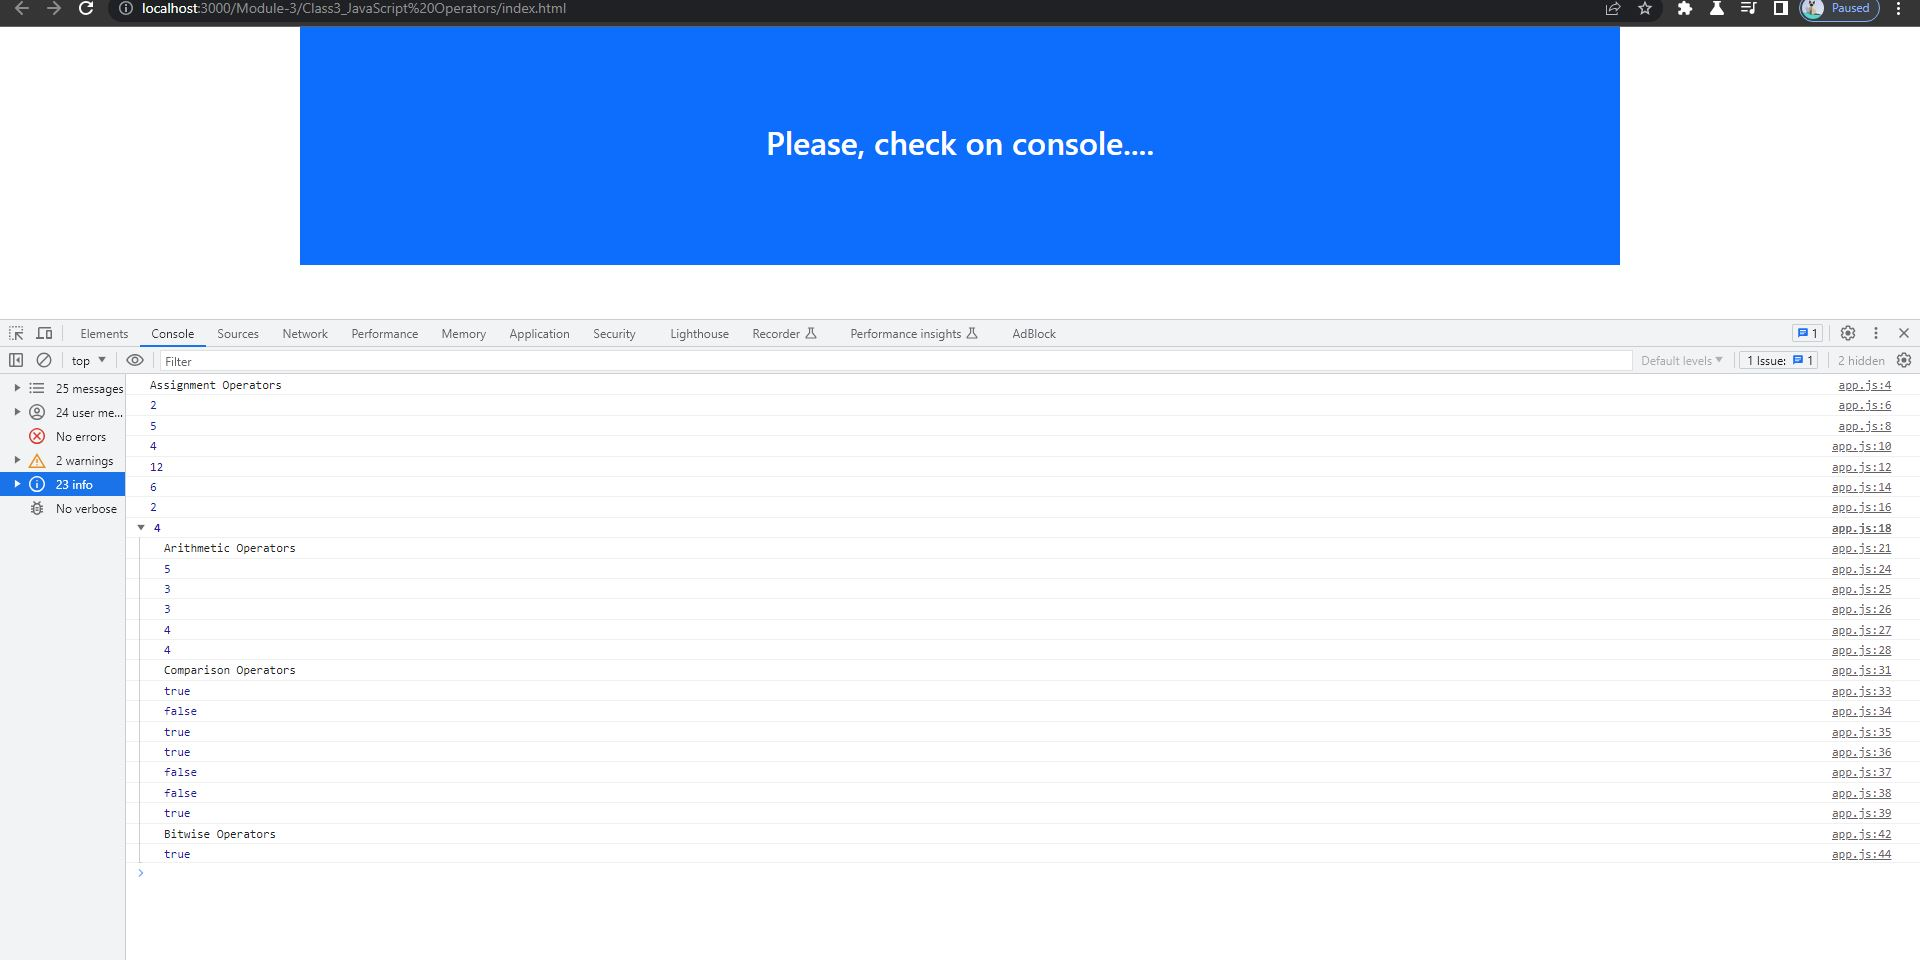
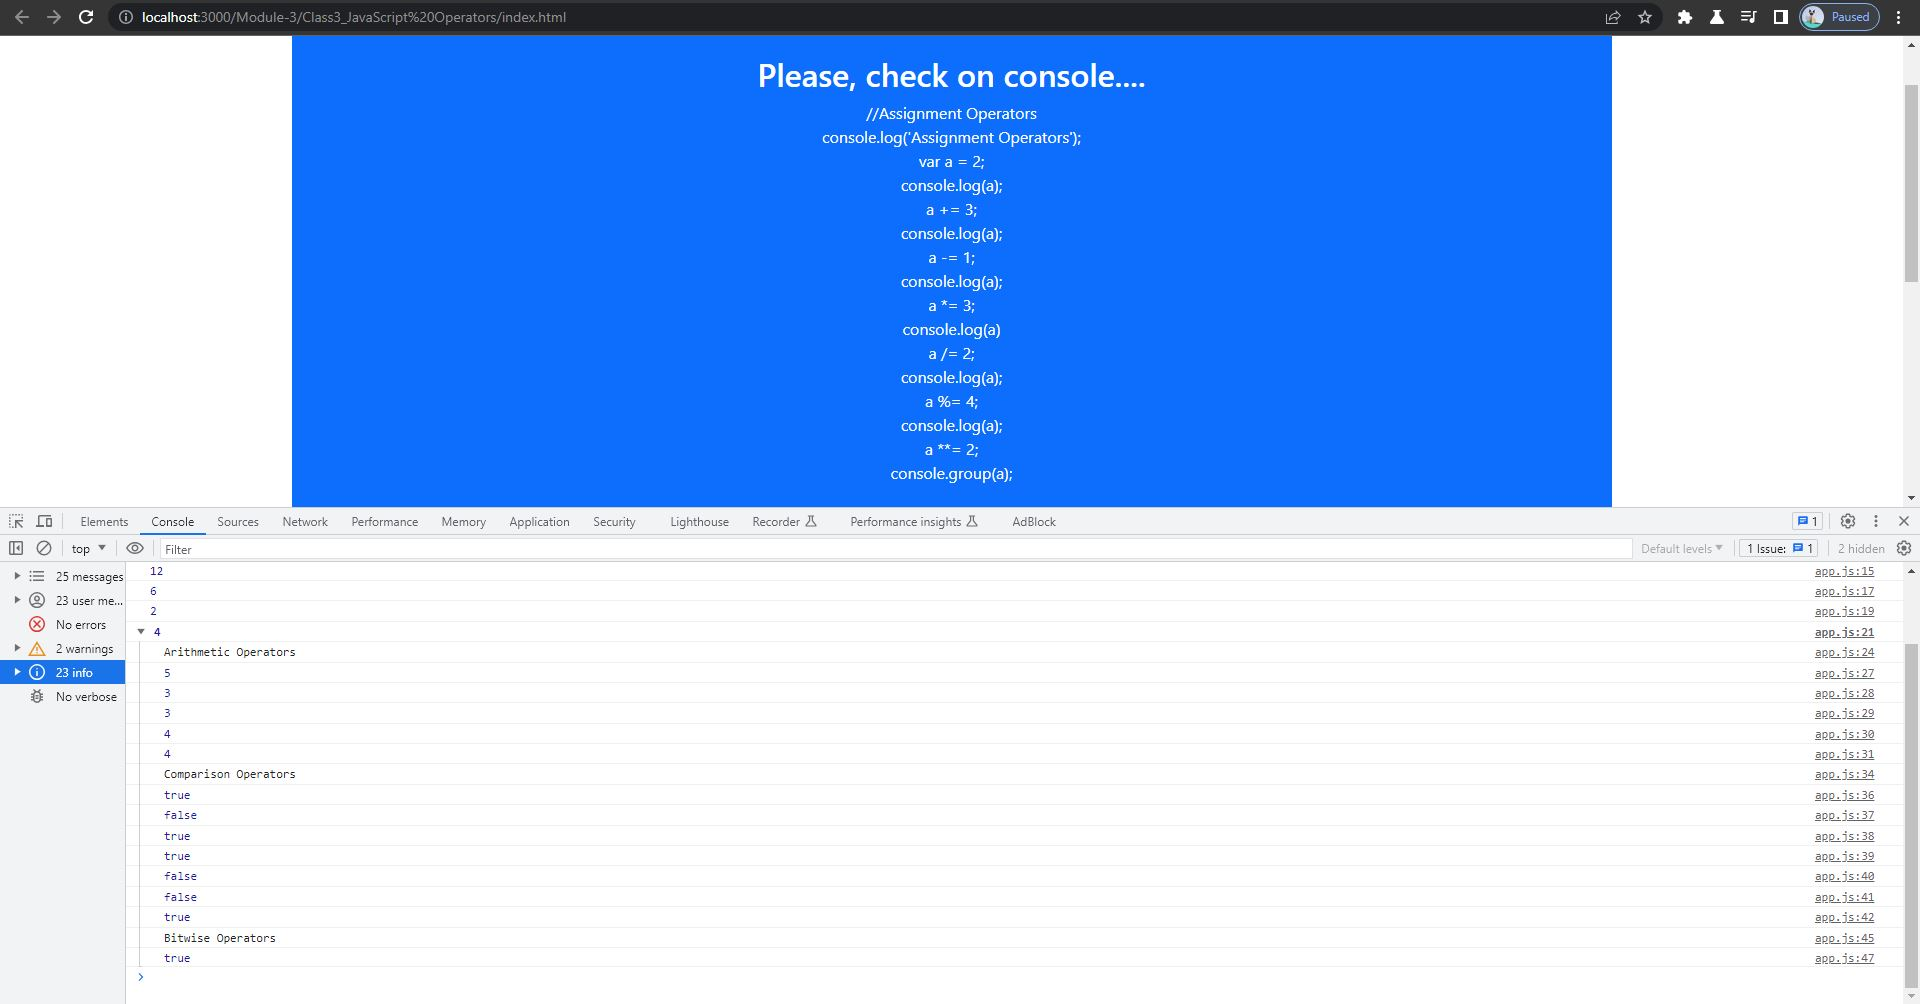
edit m3 c3

diff --git a/Module-3/Class3_JavaScript Operators/app.js b/Module-3/Class3_JavaScript Operators/app.js
@@ -1,5 +1,8 @@
 
 
+
+
+
 //Assignment Operators
 console.log('Assignment Operators');
 var a = 2;
@@ -42,3 +45,7 @@ console.log(e <= f);
 console.log('Bitwise Operators');
 var k = 2, j = 3, m = true, n = false;
 console.log((k == j) == n);
+
+
+
+document.getElementById("demo").innerHTML = "//Assignment Operators <br/> console.log('Assignment Operators'); <br/>var a = 2;<br/>console.log(a);<br/>a += 3;<br/>console.log(a);<br/>a -= 1;<br/>console.log(a);<br/>a *= 3;<br/>console.log(a)<br/>a /= 2;<br/>console.log(a);<br/>a %= 4;<br/>console.log(a);<br/>a **= 2;<br/>console.group(a);<br/><br/>//Arithmetic Operators<br/>console.log('Arithme<br/> console.log('Comparison Operators');<br/> var e = 4, f = 4, g = 5, h = '5';<br/>  console.log(e == f);<br/>    console.log(f == g);<br/>  console.log(f != g);<br/>   console.log(g == h);<br/>   console.log(g === h);<br/>  console.log(f > g);<br/> console.log(e <= f);<br/><br/> //Bitwise Operators<br/>console.log('Bitwise Operators');<br/>  var k = 2, j = 3, m = true, n = false;<br/> console.log((k == j) == n);;";

diff --git a/Module-3/Class3_JavaScript Operators/index.html b/Module-3/Class3_JavaScript Operators/index.html
@@ -4,7 +4,6 @@
     <meta charset="UTF-8">
     <meta http-equiv="X-UA-Compatible" content="IE=edge">
     <meta name="viewport" content="width=device-width, initial-scale=1.0">
-    <script src="./app.js"></script>
     <link href="https://cdn.jsdelivr.net/npm/bootstrap@5.3.0-alpha3/dist/css/bootstrap.min.css" rel="stylesheet" integrity="sha384-KK94CHFLLe+nY2dmCWGMq91rCGa5gtU4mk92HdvYe+M/SXH301p5ILy+dN9+nJOZ" crossorigin="anonymous">
     <title>JavaScript Operators</title>
 </head>
@@ -13,8 +12,12 @@
         <div class="row">
             <div class="col bg-primary p-5 my-5 text-white text-center">
                 <h2>Please, check on console....</h2>
+                <p id="demo">
+
+                </p>
             </div>
         </div>
     </div>
+    <script src="./app.js"></script>
 </body>
 </html>
